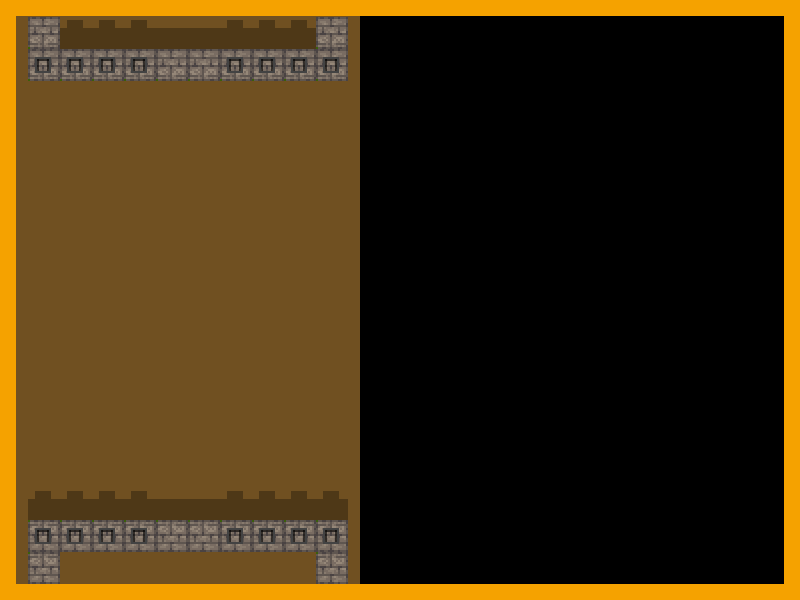
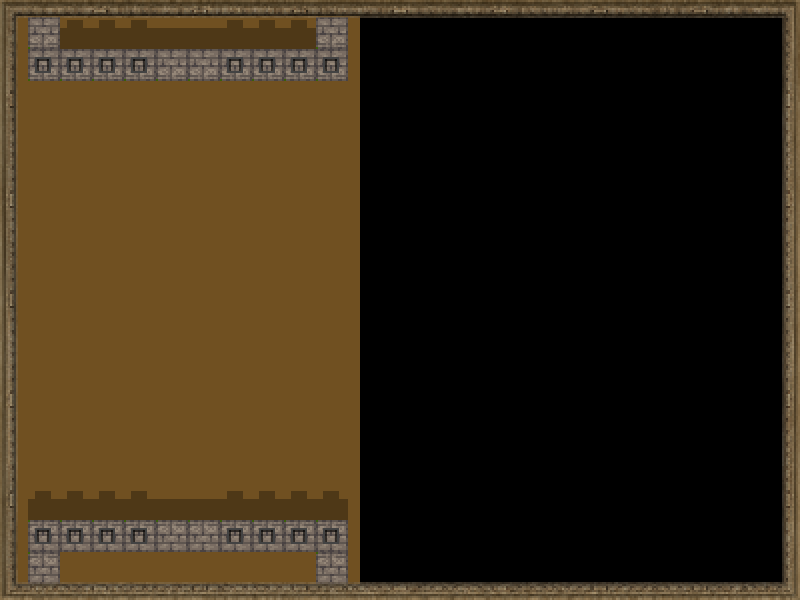
updated graphics
adding graphics changes from master

Changed region(s): [[0.0, 0.0, 1.0, 1.0]]

diff --git a/deathmatch/js/deathmatch.js b/deathmatch/js/deathmatch.js
@@ -18,8 +18,11 @@
 		this.resourceManager.add("images/archer.png", 1, "archer");
 		this.resourceManager.add("images/archer-e.png", 1, "archer-e");
 		this.resourceManager.add("images/gamebg.png", 1, "gamebg");
+		this.resourceManager.add("images/board.png", 1, "board");
 		this.resourceManager.add("images/defeat.png", 1, "defeatbg");
 		this.resourceManager.add("images/victory.png", 1, "victorybg");
+		this.resourceManager.add("images/menu.png", 1, "menubg");
+		this.resourceManager.add("images/start.png", 1, "startbut");
 		this.resourceManager.add("images/lanesel.png", 1, "laneSel");
 		jGame.prototype.load.call(this);
 	}
@@ -44,7 +47,7 @@
 		gameState.resourceBar = new ResourceBar({x : 380, y : 430, height : 30, shape : true, color:{r:0, g:100, b:255}});
 		
 		// main matching board
-		new Board({pos : {x:380, y: 20, z:1}});
+		new Board({pos : {x:380, y: 20, z:1}, resource : this.resourceManager.getResource('board')});
 		
 		// ui for buttons and labels
 		gameState.ui = new UI();
@@ -76,7 +79,7 @@
 		};
 		
 		gameState.laneGrid = [];
-		for(var x = 0; x < 5;x++){
+		for(var x = 0; x < 3;x++){
 			gameState.laneGrid[x] = [];
 			for(var y = 0; y < 18;y++){
 				gameState.laneGrid[x][y] = {
@@ -147,11 +150,15 @@
 		Game.addState("menu");
 		Game.switchState({name : "menu"});
 
-		var menuState = {};
+		var menuState = {},
+			menuBg = new Background({'resource' : this.resourceManager.getResource('menubg'), 'bgIndex' : 0}),
+			parralaxBackground = new ParralaxBackground();
+		
+		parralaxBackground.addBackground({'background' : menuBg, 'speedMultX' : 0, 'speedMultY' : 0});
 		
 		menuState.ui = new UI();
 		
-		menuState.startButton = new Button({width:158, height:60, x : Game.width/2-146/2, y : 270, resource : this.resourceManager.getResource('graphics'),
+		menuState.startButton = new Button({width:150, height:60, x : Game.width/2-146/2, y : 320, resource : this.resourceManager.getResource('startbut'),
 			clicked : function(){
 				Game.switchState({id : 0, enterTransition : {effect : 'fadeIn'}, exitTransition : {effect : 'fadeOut'}});
 			},
@@ -175,11 +182,6 @@
 			defeatBg = new Background({'resource' : this.resourceManager.getResource('defeatbg'), 'bgIndex' : 0}),
 			parralaxBackground = new ParralaxBackground();
 			parralaxBackground.addBackground({'background' : defeatBg, 'speedMultX' : 0, 'speedMultY' : 0});
-		
-		defeatState.ui = new UI();
-		defeatState.defeatedLabel = new Label({text:'You have been defeated!', x:120,y:280,z:1, 'font':'34pt MedievalSharp'});
-		
-		defeatState.ui.addItem(defeatState.defeatedLabel, 100);	
 	}
 	
 	// Defeat state
@@ -191,11 +193,6 @@
 			victoryBg = new Background({'resource' : this.resourceManager.getResource('victorybg'), 'bgIndex' : 0}),
 			parralaxBackground = new ParralaxBackground();
 			parralaxBackground.addBackground({'background' : victoryBg, 'speedMultX' : 0, 'speedMultY' : 0});
-		
-		victoryState.ui = new UI();
-		victoryState.victoryLabel = new Label({text:'You are victorious!', x:180,y:280,z:1, 'font':'34pt MedievalSharp'});
-		
-		victoryState.ui.addItem(victoryState.victoryLabel, 100);	
 	}
 	
 	DeathMatch.prototype.update = function(){

diff --git a/deathmatch/js/entities/castle.js b/deathmatch/js/entities/castle.js
@@ -4,6 +4,7 @@
 		this.live = true;
 		this.label = label;
 		this.team = team;
+		this.end = false;
 		Game.addEntity(this, true);
     }
     
@@ -18,7 +19,8 @@
     {	
 		this.label.text = this.health.toFixed(2) + "%";
 		
-		if(this.health <= 0){
+		if(this.health <= 0 && !this.end){
+			this.end = true;
 			if(this.team ===1){
 				Game.switchState({name : "defeat", enterTransition : {effect : 'fadeIn'}, exitTransition : {effect : 'fadeOut'}});
 			}else{

diff --git a/deathmatch/js/entities/laneselector.js b/deathmatch/js/entities/laneselector.js
@@ -6,9 +6,9 @@
 		this.height = 32;
 			
 		this.lastChanged = new Date().getTime();
-		this.changeInterval = 800;
+		this.changeInterval = 1200;
 		
-		this.spawnLanes = [88, 130, 172, 214, 256];
+		this.spawnLanes = [88, 172, 256];
 		this.currentLane = 0;
 
 		this.pos.x = this.spawnLanes[this.currentLane];

diff --git a/deathmatch/js/entities/board.js b/deathmatch/js/entities/board.js
@@ -5,7 +5,7 @@ function Board(options){
 		this.tiles = [];
 		this.width = 400;
 		this.height = 400;
-		this.color = "grey";
+
 		this.pos = options.pos;//{x : 380, y : 20, z:0};
 		
 		this.clickable = true;
